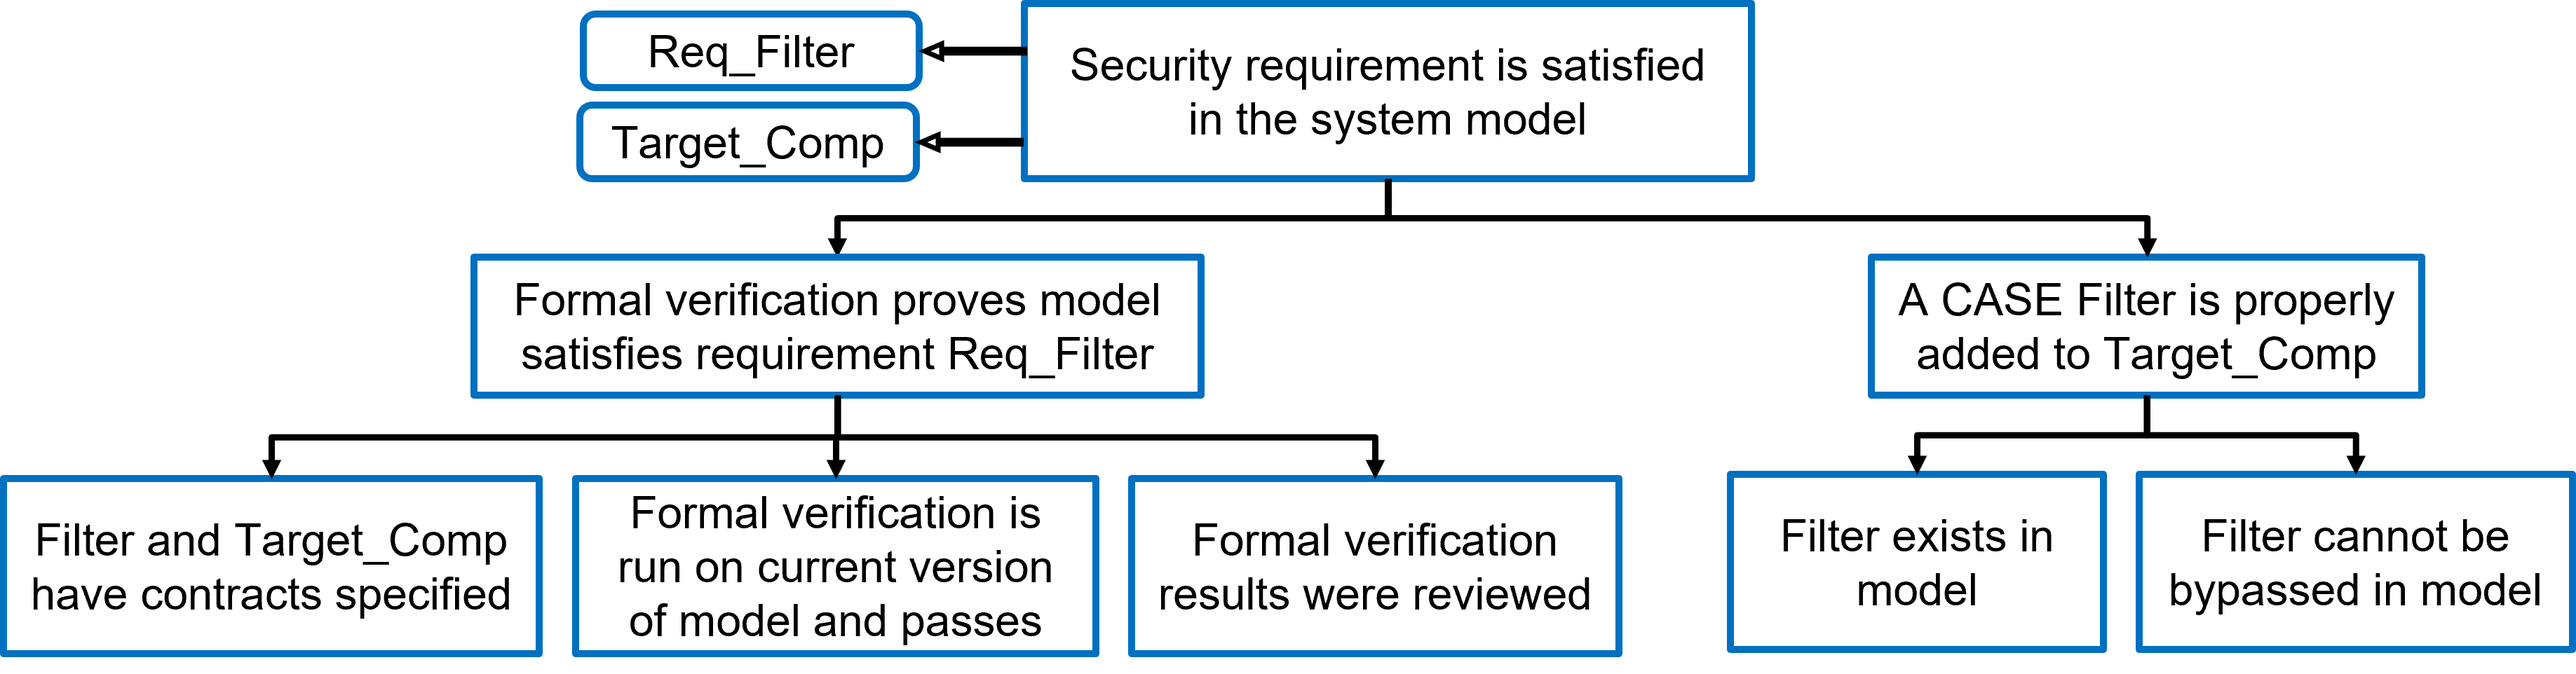
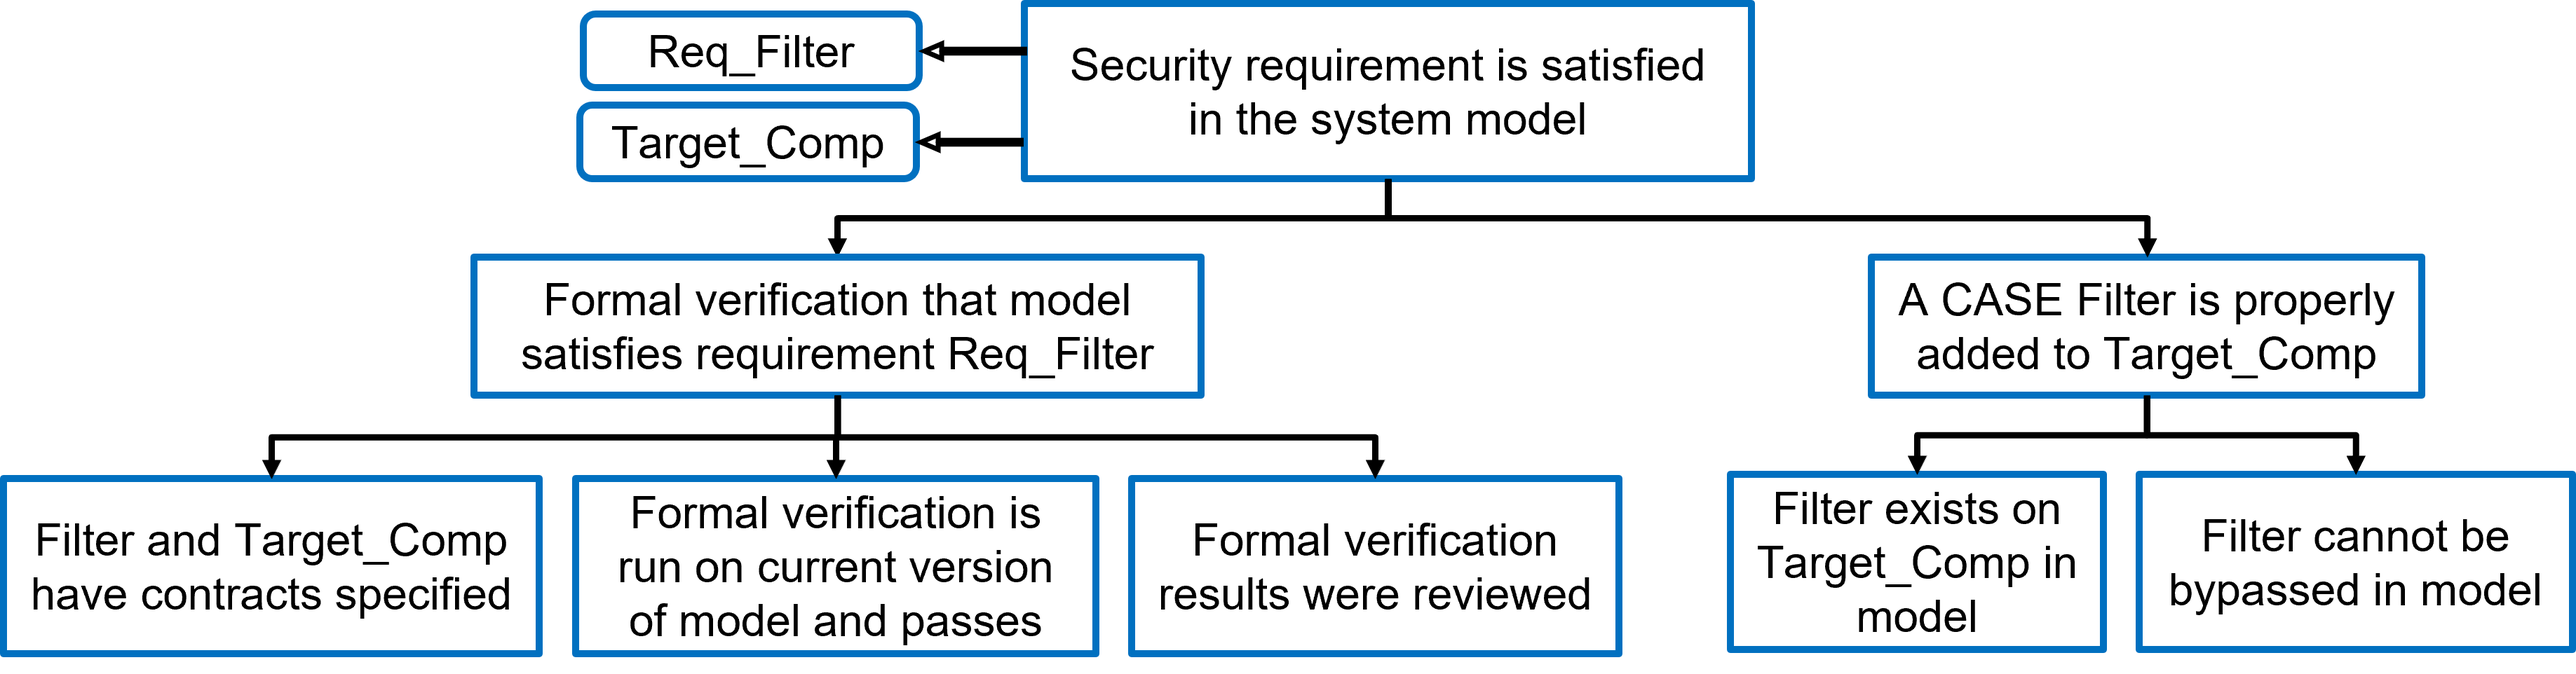
deployment

Changed region(s): [[0.6826, 0.7173, 0.8068, 0.9356], [0.1862, 0.4054, 0.4654, 0.4678]]

diff --git a/assurance-pattern.tex b/assurance-pattern.tex
@@ -42,24 +42,36 @@ BriefCASE includes a library of automated model transformations corresponding to
 % NOT SURE HOW MUCH SPACE WE WILL HAVE HERE.
 % USE FILTER AS EXAMPLE
 % OTHERWISE, JUST REFERENCE DESTION PAPER 
-Because the transformations modify the architecture model in different ways, assuring that a specific requirement is satisfied in the model will be argued according to a transformation-specific pattern.  For example, a message well-formedness requirement on a component's input port can be addressed by inserting a filter on the communication channel upstream of the target component.  The corresponding assurance pattern for this mitigation is shown in Figure~\ref{fig:filter}.
+Because the transformations modify the architecture model in different ways, assuring that a specific requirement is satisfied in the model will be argued according to a transformation-specific pattern.  For example, a well-formed message requirement on a component's input port can be addressed by inserting a filter on the communication channel upstream of the target component.  The corresponding assurance pattern for this mitigation is shown in Figure~\ref{fig:filter}.  Here, we argue that the well-formed message requirement has been satisfied in the model by showing that formal verification passed on the current version of the model, that a filter is appropriately inserted upstream of the target component, and that the filter cannot be bypassed.  Assurance patterns corresponding to all the BriefCASE model transformations have been defined and are packaged with the tool.  Due to space limitations we do not include them here, but instead refer the reader to the BriefCASE project site.
 
 \begin{figure}[h] 
 	\centering 
 	\includegraphics[width=\textwidth]{figs/filter.png}
-	\caption{Assurance pattern for a filter mitigation.}
+	\caption{Pattern for assuring proper filter mitigation in the architecture model.}
 	\label{fig:filter} 
 \end{figure}
 
 % Implementation assurance
-\subsection{Cyber Requirements are Satisfied in the Realization of the Model}
+\subsection{Cyber Requirements are Satisfied in the Realization of the System Model}
 % Where BriefCASE implementations can come from (legacy/manual implementation, SPLAT synthesis, pre-packaged - Attestation, seL4, HAMR)
 
-In the CASE workflow, a software component implementation could have various origins.  It could be legacy, third-party, or manually implemented code. It could also be generated from an external behavioral model such as Simulink or be synthesized directly from the component's contract.  In BriefCASE, the latter is performed by the SPLAT tool~\cite{case-verified-filter}, which synthesizes the implementation of high-assurance components in the CakeML language~\cite{cakeml} directly from a formal assume-guarantee contract specified in the AADL component's AGREE annex~\cite{compositional-analysis-agree}.  In addition to providing a formally verified compiler, CakeML enables SPLAT to generate a proof of correctness that the synthesized implementation is correct with respect to the contract.
+In the CASE workflow, a software component implementation could have various origins.  It could be legacy, third-party, or manually implemented code. It could also be generated from a behavioral model such as Simulink or be synthesized directly from the component's contract.  In BriefCASE, the latter is performed by the SPLAT tool~\cite{case-verified-filter}, which synthesizes the implementation of high-assurance components in the CakeML language~\cite{cakeml} directly from a formal assume-guarantee contract specified in the AADL component's AGREE annex~\cite{compositional-analysis-agree}.  In addition to providing a formally verified compiler, CakeML enables SPLAT to generate a proof that the synthesized implementation is correct with respect to the formal contract.
 
-In addition to the software component application code, infrastructure code and the operating system itself must be implemented and integrated into a deployable system.  The HAMR~\cite{hamr} system build tool included with BriefCASE generates the infrastructure code, along with correspondence proofs that the intra-component connections specified in the model are maintained in the implementation, and that no new connections have been created.  This is made possible in part by building to an seL4~\cite{sel4-cacm18} target.  seL4 is a formally verified microkernel that provides time and space partitioning guarantees.  
+Application infrastructure code and the operating system itself must also be implemented and integrated into a deployable system.  BriefCASE employs the HAMR build tool~\cite{hamr}, which generates the infrastructure code, along with correspondence proofs that the inter-component connections specified in the model are maintained in the implementation and that no new connections have been created.  For high-assurance systems, this is made possible in part by building to a target platform running seL4~\cite{sel4-cacm18}, a formally verified microkernel that provides time and space partitioning guarantees.
 
-The structure of the implementation branch of the assurance pattern therefore examines the provenance of the software and assures it ...
+% Add a paragraph (and maybe a figure?) on the HAMR API for component code to tie into following sentence
+TODO - BRIEF DESCRIPTION OF HAMR API
+
+\begin{figure}[h] 
+	\centering 
+	\includegraphics[width=\textwidth]{figs/deployment-interface.png}
+	\caption{(a) Example AADL component interface features and disclosed component state. (b) Schematic of deployed component, with notion of observation points.}
+	\label{fig:deployment-interface} 
+\end{figure}
+
+The structure of the \textit{model realization} branch of the assurance pattern (partially shown in Figure~\ref{fig:req-satisfied-in-model-realization}) therefore necessarily focuses on evidence of correctness in terms of behaviors observed at deployment observation points associated with the BriefCASE workflow.  
+%Patterns for assuring deployed code with provenance external to BriefCASE are not presented here, but would be included in a straight-forward manner.
+
 
 \begin{figure}[h] 
 	\centering 
@@ -68,6 +80,16 @@ The structure of the implementation branch of the assurance pattern therefore ex
 	\label{fig:req-satisfied-in-model-realization} 
 \end{figure}
 
+To support the claim that the deployed software components satisfy their requirements,
+%in Figure~\ref{fig:req-satisfied-in-model-realization}
+for each component, we require evidence that the cyber requirements are stated in terms of a component's AADL interface and publicly disclosed state, and that the component application code conforms to both its declared interface and requirements.  Although demonstrating that requirements are stated in terms of a component's interface is not strictly necessary in the general case, it is included in this pattern for confidence that the CASE workflow was followed correctly. 
+
+
+Furthermore, the component's application code must conform to its declared interface and requirements.  This goal is substantiated by the argument in Figure~\ref{fig:code-conforms-to-interface-and-requirements}.
+%
+% The component's AADL runtime infrastructure code satisfies AADL port and threading semantics
+%
+Finally, the component's platform deployment context achieves its required assurance properties.  This is supported by the argument in Figure~\ref{fig:platform-deployment-context-achieves-assurance-properties}.
 
 
 \begin{figure}[h]
@@ -84,3 +106,7 @@ The structure of the implementation branch of the assurance pattern therefore ex
 	\caption{Assurance pattern for arguing platform deployment context achieves the required assurance properties.}
 	\label{fig:platform-deployment-context-achieves-assurance-properties} 
 \end{figure}
+
+
+
+In addition to demonstrating that \textit{deployed} software components satisfy their requirements, we must also argue that the platform components guarantee their required properties and the system implementation preserves them.

diff --git a/introduction.tex b/introduction.tex
@@ -18,7 +18,7 @@ Our team developed BriefCASE~\cite{case-at-scale}, a tool chain for developing a
 \end{figure}
 
 % ASSURANCE
-For the development of high-assurance commercial products, there are multiple stakeholders that must be convinced of a product's dependability prior to market-release or deployment.  First and foremost, the developing organization must be confident in the product's correctness.  Next, the certification or accreditation authority must be convinced.  Finally the customer, end user (and often other stakeholders in between) will need to be convinced the product will behave as intended.  Assurance is the process by which an organization compiles a comprehensive argument to demonstrate a product's dependability~\cite{???}.  In order to be effective, the argument must be well-formed, complete, and substantiated with evidence.  Assembling such an argument is not a straight-forward task.  For the highest-regulated environments, it is argued that construction of these arguments should never be left to automation~\cite{???-Holloway}.  In other situations, arguments can be constructed based on assurance templates, or \textit{patterns}, in which generic arguments are defined (ideally arrived at through consensus by a body of experts), then instantiated with a concrete system instance.  This is the approach taken by BriefCASE, which includes a cybersecurity assurance pattern that is instantiated with the system under development, and incorporates evidence produced by artifacts generated by the framework workflow.
+For the development of high-assurance commercial products, there are multiple stakeholders that must be convinced of a product's dependability prior to market-release or deployment.  First and foremost, the developing organization must be confident in the product's correctness.  Next, the certification or accreditation authority must be convinced.  Finally the customer, end user (and often other stakeholders in between) will need to be convinced the product will behave as intended.  Assurance is the process by which an organization compiles a comprehensive argument to demonstrate a product's dependability~\cite{???}.  In order to be effective, the argument must be well-formed, complete, and substantiated with evidence.  Assembling such an argument is not a straight-forward task.  For heavily-regulated environments, it is argued that construction of these arguments should never be left to automation~\cite{???-Holloway}.  In other situations, arguments can be constructed based on assurance templates, or \textit{patterns}, in which generic arguments are defined (ideally arrived at through consensus by a body of experts), then instantiated with a concrete system instance.  This is the approach taken by BriefCASE, which includes a cybersecurity assurance pattern that is instantiated with the system under development, and incorporates evidence produced by artifacts generated by the framework workflow.
 
 % RELATED WORK (Assurance patterns, assurance generation, DMILS, DESTION, what's new here)
 

diff --git a/main.tex b/main.tex
@@ -1,5 +1,6 @@
 \documentclass[runningheads]{llncs}
 
+\usepackage{float}
 \usepackage{graphicx}
 
 \begin{document}
